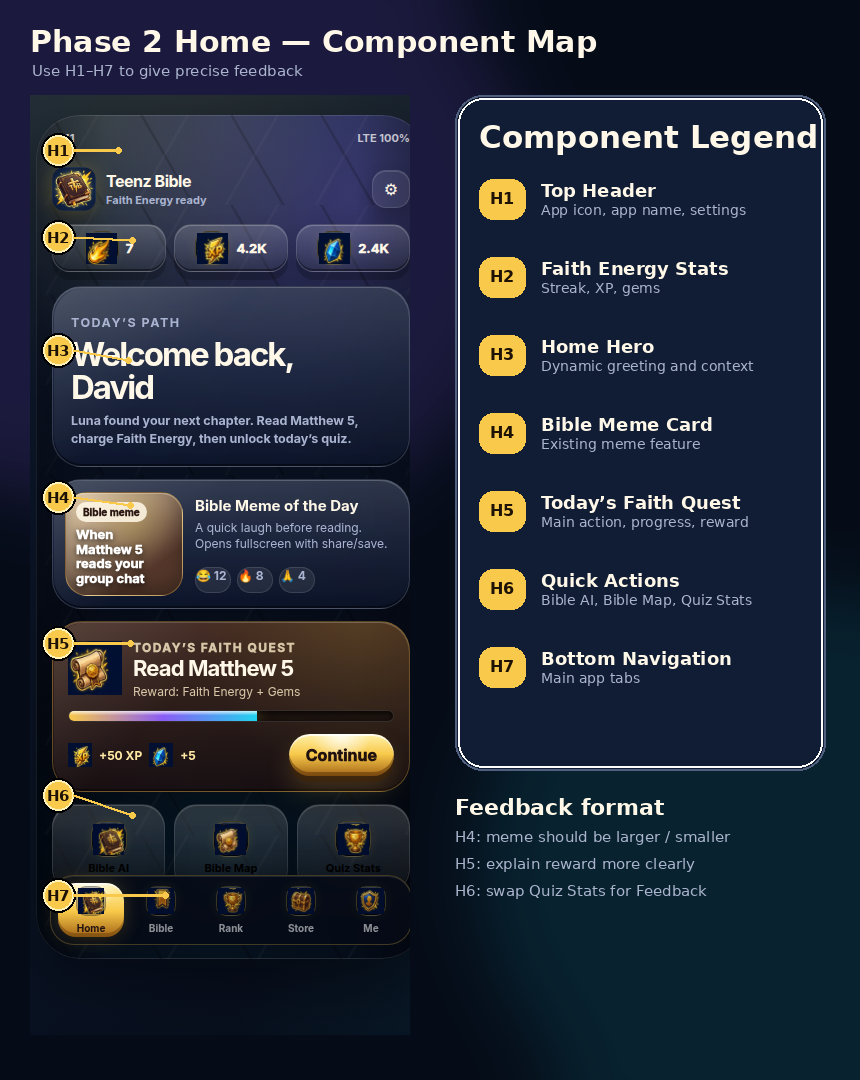
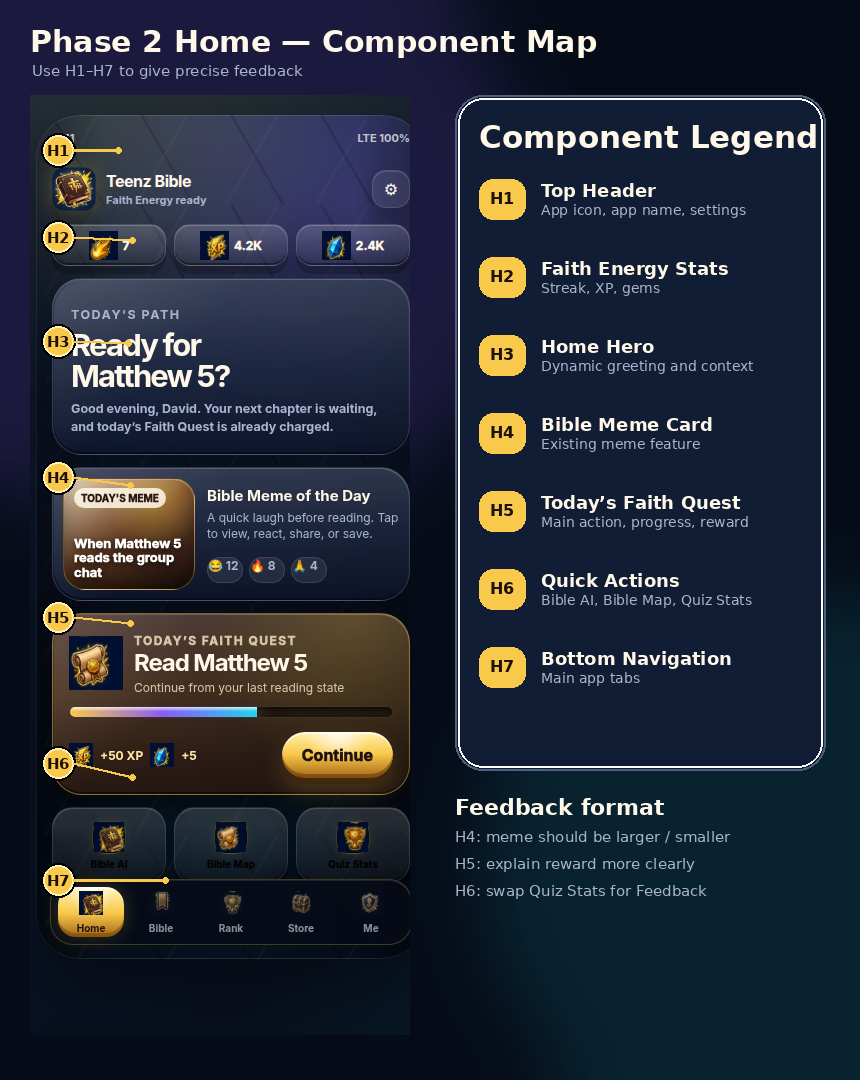
Update Phase 2 Home per component feedback

Changed region(s): [[0.0302, 0.2139, 0.4837, 0.8556], [0.2116, 0.7333, 0.3326, 0.8556]]

diff --git a/design-mockups/phase-2-home-redesign.html b/design-mockups/phase-2-home-redesign.html
@@ -160,22 +160,22 @@
       display: grid;
       grid-template-columns: repeat(3, 1fr);
       gap: 8px;
-      margin-bottom: 14px;
+      margin-bottom: 12px;
     }
     .stat {
-      min-height: 48px;
+      min-height: 42px;
       display: flex;
       align-items: center;
       justify-content: center;
-      gap: 7px;
-      border-radius: 18px;
+      gap: 6px;
+      border-radius: 16px;
       background:
         linear-gradient(180deg, rgba(255,255,255,.12), rgba(255,255,255,.04) 48%, rgba(0,0,0,.16)),
         rgba(255,255,255,.06);
       border: 1px solid rgba(255,255,255,.13);
       box-shadow: inset 0 1px 0 rgba(255,255,255,.22), inset 0 -2px 0 rgba(0,0,0,.38), 0 8px 0 rgba(0,0,0,.18), 0 14px 24px rgba(0,0,0,.18);
       font-weight: 950;
-      font-size: 13px;
+      font-size: 12px;
     }
     .icon-frame {
       display: grid;
@@ -190,7 +190,8 @@
       box-shadow: inset 0 1px 0 rgba(255,255,255,.12), inset 0 -2px 0 rgba(0,0,0,.48), 0 0 12px rgba(255,226,77,.08);
     }
     .icon-frame img { width: 31px; height: 31px; object-fit: contain; }
-    .stat .icon-frame { width: 34px; height: 34px; }
+    .stat .icon-frame { width: 28px; height: 28px; border-radius: 10px; background: transparent; border: 0; box-shadow: none; }
+    .stat .icon-frame img { width: 29px; height: 29px; }
 
     .card {
       position: relative;
@@ -227,7 +228,7 @@
     }
     .hero-card h1 {
       margin: 6px 0 0;
-      font-size: 33px;
+      font-size: 31px;
       line-height: .98;
       letter-spacing: -.06em;
     }
@@ -266,25 +267,26 @@
 
     .meme {
       display: grid;
-      grid-template-columns: 118px 1fr;
+      grid-template-columns: 132px 1fr;
       gap: 12px;
       align-items: stretch;
-      padding: 12px;
+      padding: 10px;
       margin-bottom: 12px;
     }
     .meme-art {
       position: relative;
       overflow: hidden;
-      min-height: 104px;
+      min-height: 112px;
       border-radius: 22px;
       background:
-        radial-gradient(circle at 58% 28%, rgba(255,226,77,.18), transparent 42%),
-        linear-gradient(145deg, #f5dfb9, #54372a 74%);
+        linear-gradient(180deg, rgba(0,0,0,.02), rgba(0,0,0,.48)),
+        radial-gradient(circle at 70% 22%, rgba(255,226,77,.38), transparent 38%),
+        linear-gradient(145deg, #f7e5c4, #8c5532 48%, #2a1713 100%);
       border: 1px solid rgba(248,201,74,.28);
       box-shadow: inset 0 1px 0 rgba(255,255,255,.28), inset 0 -8px 18px rgba(0,0,0,.3);
     }
     .meme-art::before {
-      content: "Bible meme";
+      content: "TODAY'S MEME";
       position: absolute;
       left: 10px;
       top: 9px;
@@ -296,7 +298,7 @@
       font-weight: 950;
     }
     .meme-art::after {
-      content: "When Matthew 5 reads your group chat";
+      content: "When Matthew 5 reads the group chat";
       position: absolute;
       left: 10px;
       right: 10px;
@@ -332,12 +334,18 @@
     }
 
     .quest {
-      padding: 15px;
+      padding: 16px;
       margin-bottom: 12px;
       background:
-        radial-gradient(circle at 86% 0%, rgba(255,226,77,.12), transparent 10rem),
-        linear-gradient(180deg, rgba(74,45,33,.88), rgba(27,16,18,.9));
-      border-color: rgba(248,201,74,.28);
+        radial-gradient(circle at 85% 0%, rgba(255,226,77,.2), transparent 10rem),
+        linear-gradient(180deg, rgba(255,255,255,.08), rgba(248,201,74,.08) 45%, rgba(35,22,16,.86)),
+        linear-gradient(135deg, rgba(74,45,33,.9), rgba(27,16,18,.92));
+      border-color: rgba(248,201,74,.42);
+      box-shadow:
+        0 12px 0 rgba(0,0,0,.2),
+        0 22px 48px rgba(0,0,0,.32),
+        inset 0 1px 0 rgba(255,255,255,.22),
+        inset 0 -2px 0 rgba(0,0,0,.5);
     }
     .quest-head {
       display: flex;
@@ -346,7 +354,7 @@
       margin-bottom: 11px;
     }
     .quest-head img { width: 54px; height: 54px; object-fit: contain; }
-    .quest h2 { margin: 0; font-size: 22px; letter-spacing: -.04em; }
+    .quest h2 { margin: 0; font-size: 24px; letter-spacing: -.045em; }
     .quest p { margin: 3px 0 0; color: #d7c6a7; font-size: 12px; }
     .progress {
       height: 12px;
@@ -369,7 +377,7 @@
       display: flex;
       align-items: center;
       justify-content: space-between;
-      margin-top: 12px;
+      margin-top: 14px;
     }
     .reward {
       display: inline-flex;
@@ -382,8 +390,8 @@
     .reward img { width: 24px; height: 24px; object-fit: contain; }
     .cta {
       border: 0;
-      height: 42px;
-      padding: 0 17px;
+      height: 46px;
+      padding: 0 20px;
       border-radius: 999px;
       color: #21120f;
       font-weight: 950;
@@ -396,24 +404,25 @@
     .quick-grid {
       display: grid;
       grid-template-columns: repeat(3, 1fr);
-      gap: 9px;
+      gap: 8px;
       margin-bottom: 12px;
     }
     .quick {
-      min-height: 88px;
-      padding: 9px;
+      min-height: 76px;
+      padding: 8px;
       display: grid;
       place-items: center;
       text-align: center;
-      border-radius: 23px;
+      border-radius: 21px;
       background:
         linear-gradient(180deg, rgba(255,255,255,.13), rgba(255,255,255,.045) 48%, rgba(0,0,0,.14)),
         rgba(255,255,255,.055);
       border: 1px solid rgba(255,255,255,.13);
       box-shadow: inset 0 1px 0 rgba(255,255,255,.2), inset 0 -2px 0 rgba(0,0,0,.4), 0 8px 0 rgba(0,0,0,.18), 0 16px 26px rgba(0,0,0,.18);
     }
-    .quick .icon-frame { margin: 0 auto; }
-    .quick b { display: block; margin-top: 4px; font-size: 11px; }
+    .quick .icon-frame { margin: 0 auto; width: 34px; height: 34px; }
+    .quick .icon-frame img { width: 30px; height: 30px; }
+    .quick b { display: block; margin-top: 4px; font-size: 10px; }
 
     .ai {
       display: grid;
@@ -443,12 +452,12 @@
       left: 14px;
       right: 14px;
       bottom: 14px;
-      height: 70px;
+      height: 66px;
       display: grid;
       grid-template-columns: repeat(5, 1fr);
       gap: 4px;
       padding: 7px;
-      border-radius: 24px;
+      border-radius: 23px;
       background: rgba(6, 11, 22, .86);
       border: 1px solid rgba(248,201,74,.25);
       box-shadow: 0 -12px 36px rgba(0,0,0,.25), inset 0 1px rgba(255,255,255,.1);
@@ -462,8 +471,8 @@
       font-size: 10px;
       font-weight: 900;
     }
-    .tab .icon-frame { width: 30px; height: 30px; border-radius: 10px; opacity: .78; }
-    .tab .icon-frame img { width: 26px; height: 26px; object-fit: contain; }
+    .tab .icon-frame { width: 24px; height: 24px; border-radius: 8px; opacity: .62; background: transparent; border: 0; box-shadow: none; filter: grayscale(.25) saturate(.65); }
+    .tab .icon-frame img { width: 24px; height: 24px; object-fit: contain; }
     .tab.active {
       color: #21120f;
       background:
@@ -471,7 +480,7 @@
         linear-gradient(180deg, #fff3b0, var(--faith-gold) 52%, #a46617);
       box-shadow: inset 0 2px rgba(255,255,255,.7), inset 0 -4px rgba(92,54,10,.42), 0 0 20px rgba(248,201,74,.22), 0 6px 0 rgba(0,0,0,.2);
     }
-    .tab.active .icon-frame { opacity: 1; background: rgba(7,20,38,.28); border-color: rgba(33,18,15,.18); box-shadow: none; }
+    .tab.active .icon-frame { opacity: 1; filter: none; background: rgba(7,20,38,.18); border: 0; box-shadow: none; }
 
     .notes {
       display: grid;
@@ -496,7 +505,7 @@
     <header class="header">
       <span class="badge">Phase 2</span>
       <h1>Home Redesign</h1>
-      <p>Home becomes the daily starting point for the Faith Energy loop: dynamic greeting, Bible Meme, Today’s Faith Quest, reading progress, and focused next actions.</p>
+      <p>Home becomes the daily launchpad: dynamic greeting, Bible Meme, Today’s Faith Quest, reading progress, and original app shortcuts.</p>
     </header>
     <section class="stage">
       <div class="phone">
@@ -515,14 +524,14 @@
         </div>
         <section class="card hero-card">
           <p class="eyebrow">Today’s path</p>
-          <h1>Welcome back,<br />David</h1>
-          <p>Luna found your next chapter. Read Matthew 5, charge Faith Energy, then unlock today’s quiz.</p>
+          <h1>Ready for<br />Matthew 5?</h1>
+          <p>Good evening, David. Your next chapter is waiting, and today’s Faith Quest is already charged.</p>
         </section>
         <section class="card meme">
           <div class="meme-art"></div>
           <div class="meme-copy">
             <b>Bible Meme of the Day</b>
-            <span>A quick laugh before reading. Opens fullscreen with share/save.</span>
+            <span>A quick laugh before reading. Tap to view, react, share, or save.</span>
             <div class="reactions"><span class="react">😂 12</span><span class="react">🔥 8</span><span class="react">🙏 4</span></div>
           </div>
         </section>
@@ -532,7 +541,7 @@
             <div>
               <p class="eyebrow">Today’s Faith Quest</p>
               <h2>Read Matthew 5</h2>
-              <p>Reward: Faith Energy + Gems</p>
+              <p>Continue from your last reading state</p>
             </div>
           </div>
           <div class="progress"><span></span></div>
@@ -563,7 +572,7 @@
           <ul>
             <li>Start with brand/app status, not decorative chrome.</li>
             <li>Bible Meme brings fun back into the Home feed.</li>
-            <li>Today’s Faith Quest is the main action card.</li>
+            <li>Today’s Faith Quest is the main action card and is driven by last-read state.</li>
             <li>Quick actions stay secondary and compact.</li>
           </ul>
         </div>
